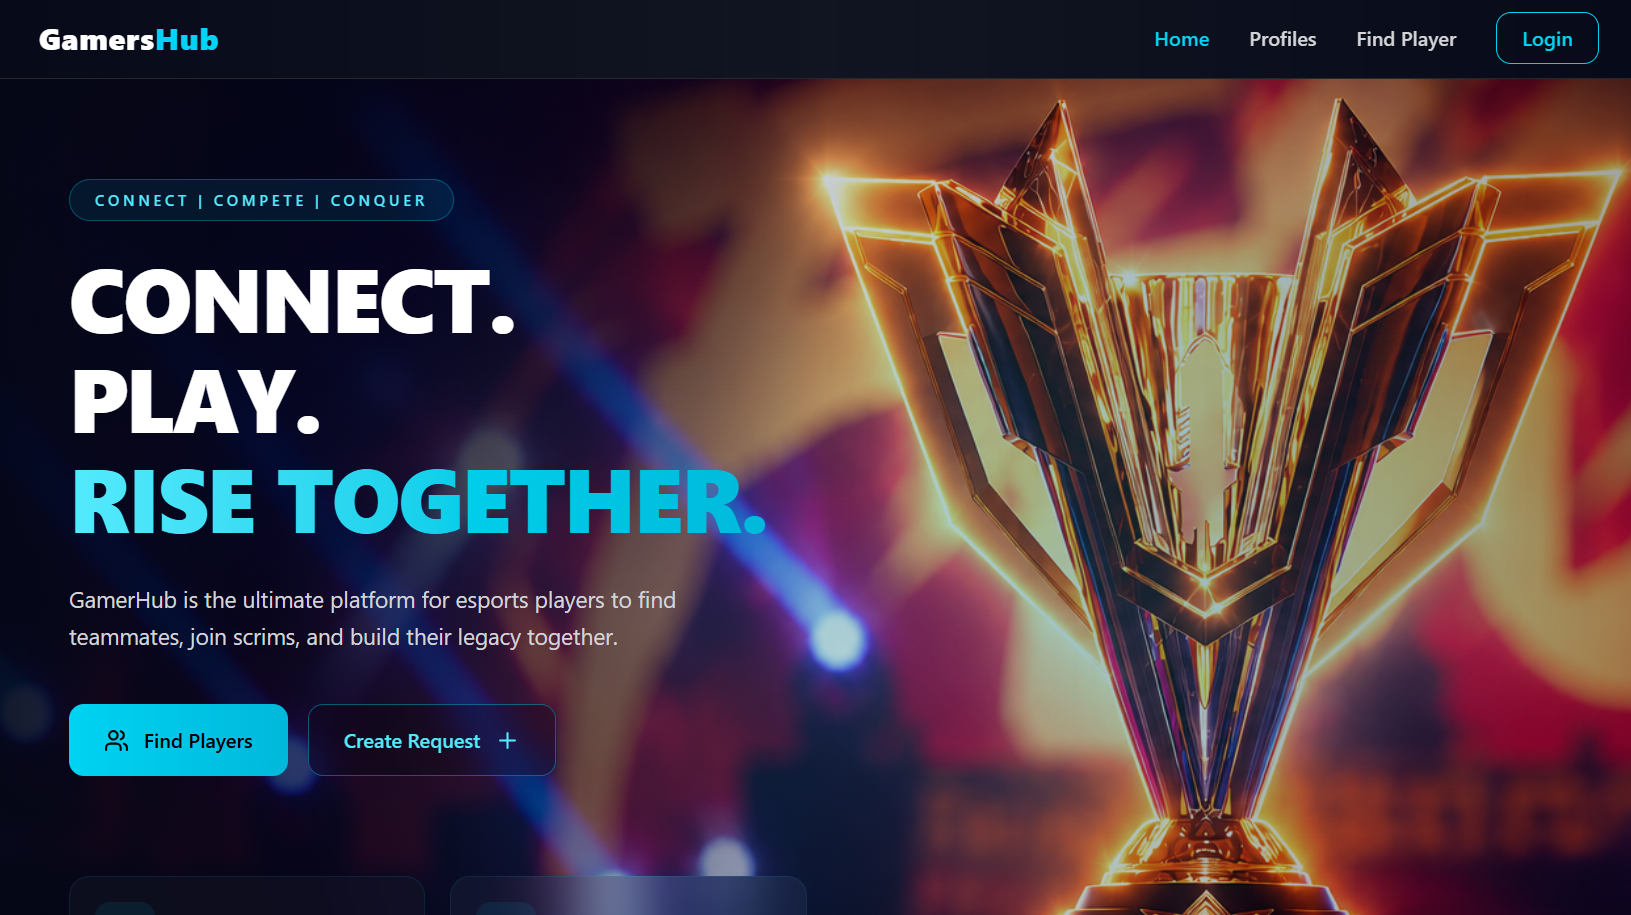
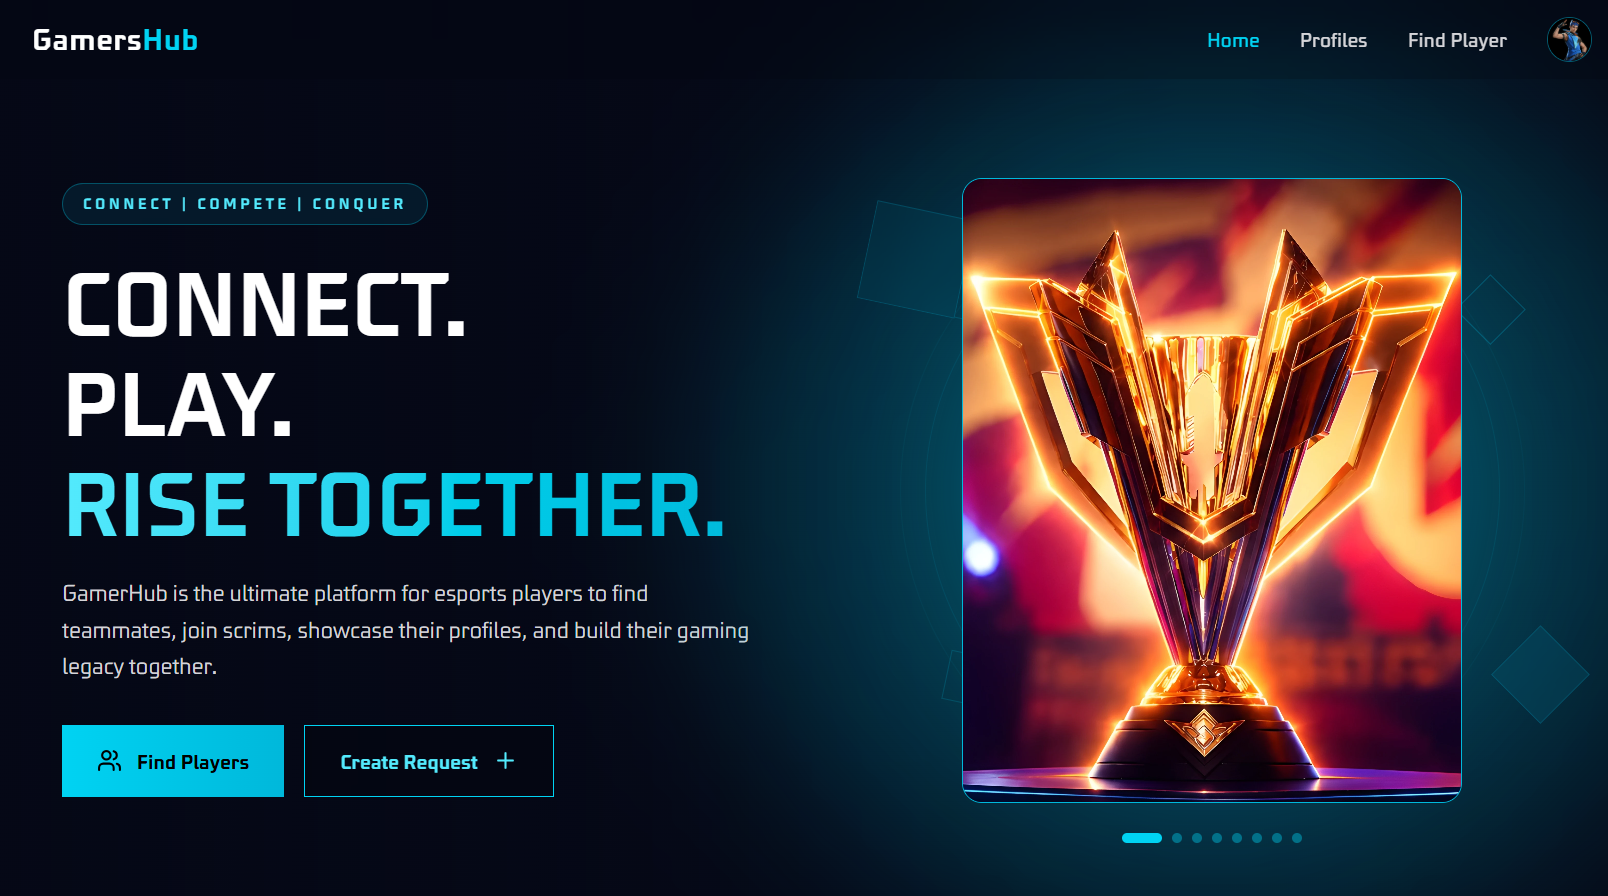
changes in gamershub project domain

diff --git a/src/data/project.js b/src/data/project.js
@@ -39,7 +39,7 @@ export const fullstackPojects = [
         ],
 
         github: "https://github.com/nikhilvishwakarma077/gamershub-backend",
-        demo: "https://gamershub-frontend-two.vercel.app/",
+        demo: "https://gamershub-ffm.vercel.app/",
         image: GamersHub,
         githublink: "https://github.com/nikhilvishwakarma077/gamershub-backend"
     },